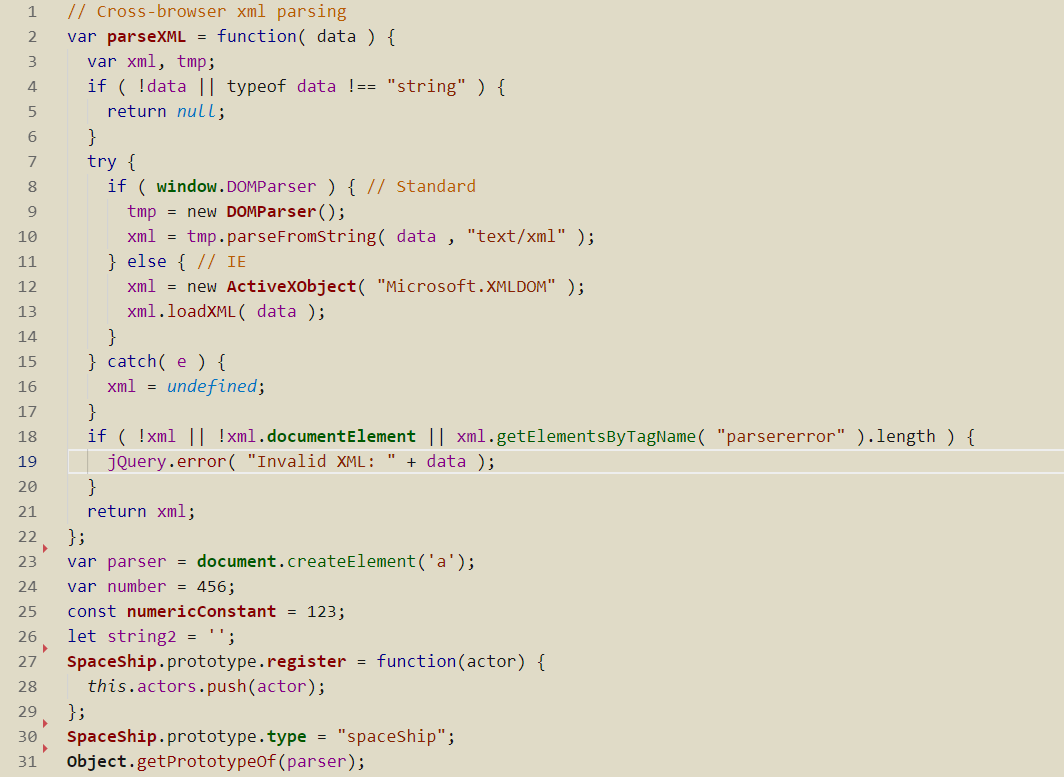
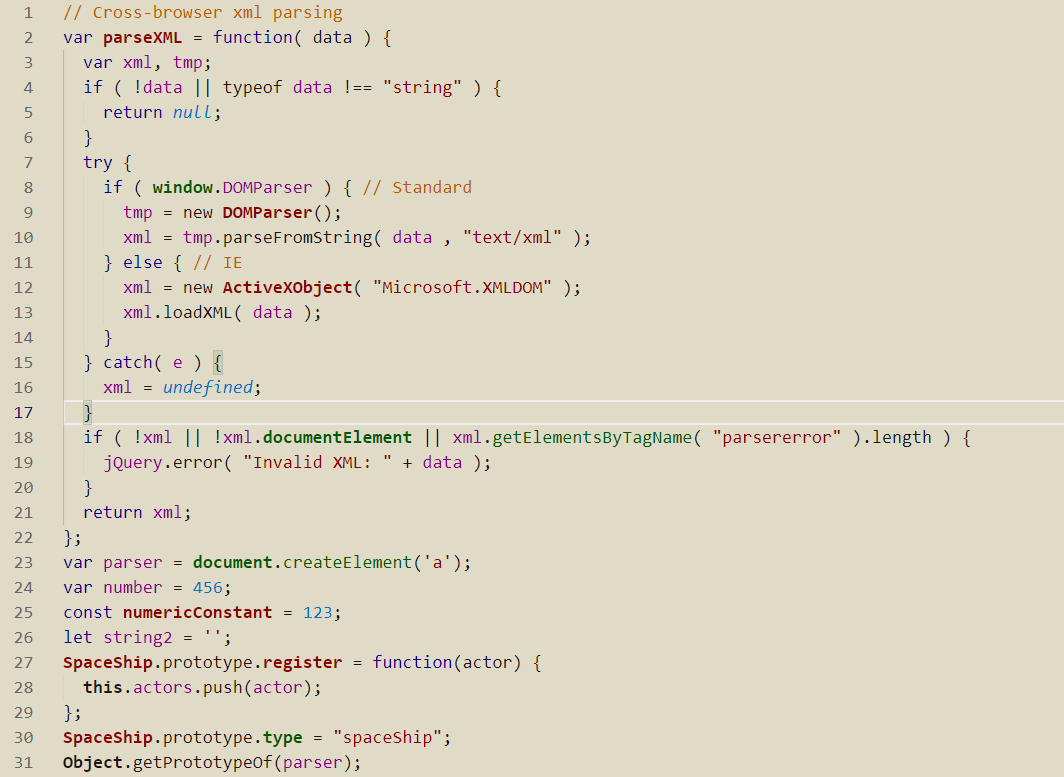
v1.3.4

diff --git a/CHANGELOG.md b/CHANGELOG.md
@@ -4,13 +4,19 @@ All notable changes to the "Daobeam" extension will be documented in this file.
 The format is based on [Keep a Changelog](http://keepachangelog.com/en/1.0.0/)
 and this project adheres to [Semantic Versioning](http://semver.org/spec/v2.0.0.html).
 
+## [1.3.4] - 2018-10-09
+### Changed
+- Most significant change: I found that I was hardly using my default foreground color, and I think using the default foreground color for function invocations and object properties works well. A function invocation is a very common thing, and shouldn't need to be called out. Goal: Don't be overly granular, and keep it simple.
+- `this` keyword bold, non-italic
+- numeric constant blue
+
 ## [1.3.3] - 2018-10-07
 ### Changed
 - Make colors consistent hex code.
 
 ## [1.3.2] - 2018-10-02
 ### Changed
-- Most significant change: remove italic from function invocations. After coding for awhile with all the italic font, I thought it was too much. Goal: keep it simple.
+- Most significant change: remove italic from function invocations. After coding for awhile with all the italic font, I thought it was too much. Goal: Keep it simple.
 
 ### Refined
 - Remove green font from non-DOM-related code. Support functions like `require` are now standard foreground color.

diff --git a/README.md b/README.md
@@ -34,12 +34,6 @@ Notice how `window`, `document`, and `getElementsByTagName()` are all green. Thi
 ## CSS (note error shown)
 !["CSS Screenshot"][2]
 
-## HTML
-!["HTML Screenshot"][3]
-
-## JSON (note error shown)
-!["JSON Screenshot"][4]
-
 ## Comparison of Biege Background Colors
 Here is a comparison of several usages of beige as a background color. Whether you're reading a book for hours, or writing code for hours, beige as a background can help reduce eyestrain. **Notice how bright the VS Code theme "Solarized-light" is in comparison to Daobeam.**
 
@@ -107,10 +101,6 @@ GNU General Public License v3.0
 [1]:https://raw.githubusercontent.com/76784/Daobeam/master/screenshots/javascript.png
 
 [2]:https://raw.githubusercontent.com/76784/Daobeam/master/screenshots/css.png
-
-[3]:https://raw.githubusercontent.com/76784/Daobeam/master/screenshots/html.png
-
-[4]:https://raw.githubusercontent.com/76784/Daobeam/master/screenshots/json.png
 
 [5]:https://raw.githubusercontent.com/76784/Daobeam/master/screenshots/beige-usages.png
 
